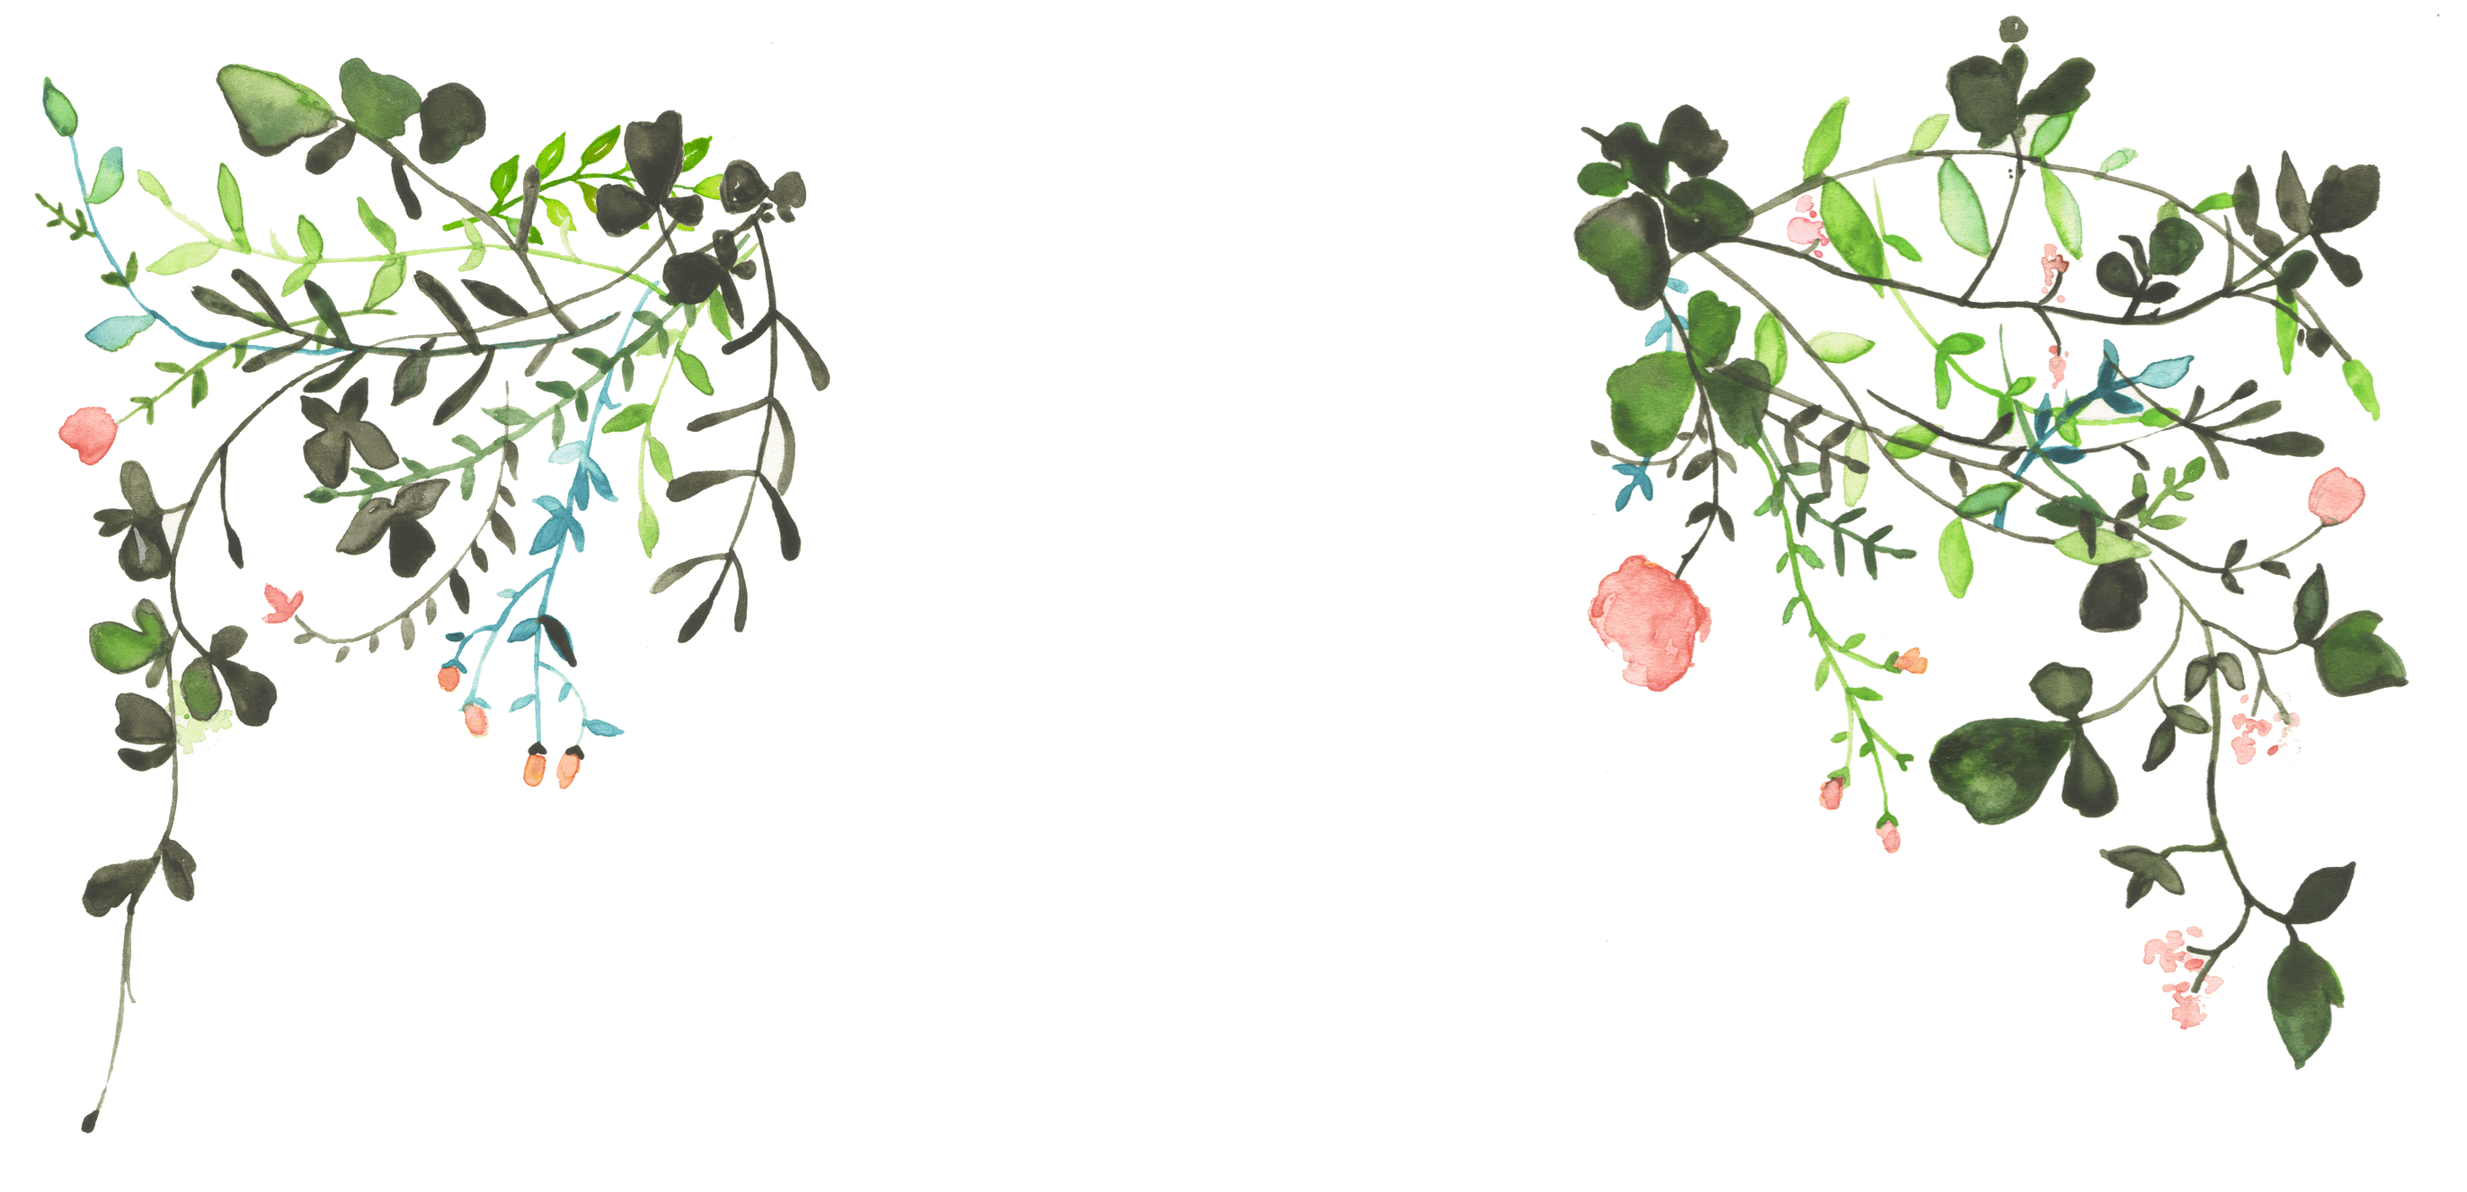
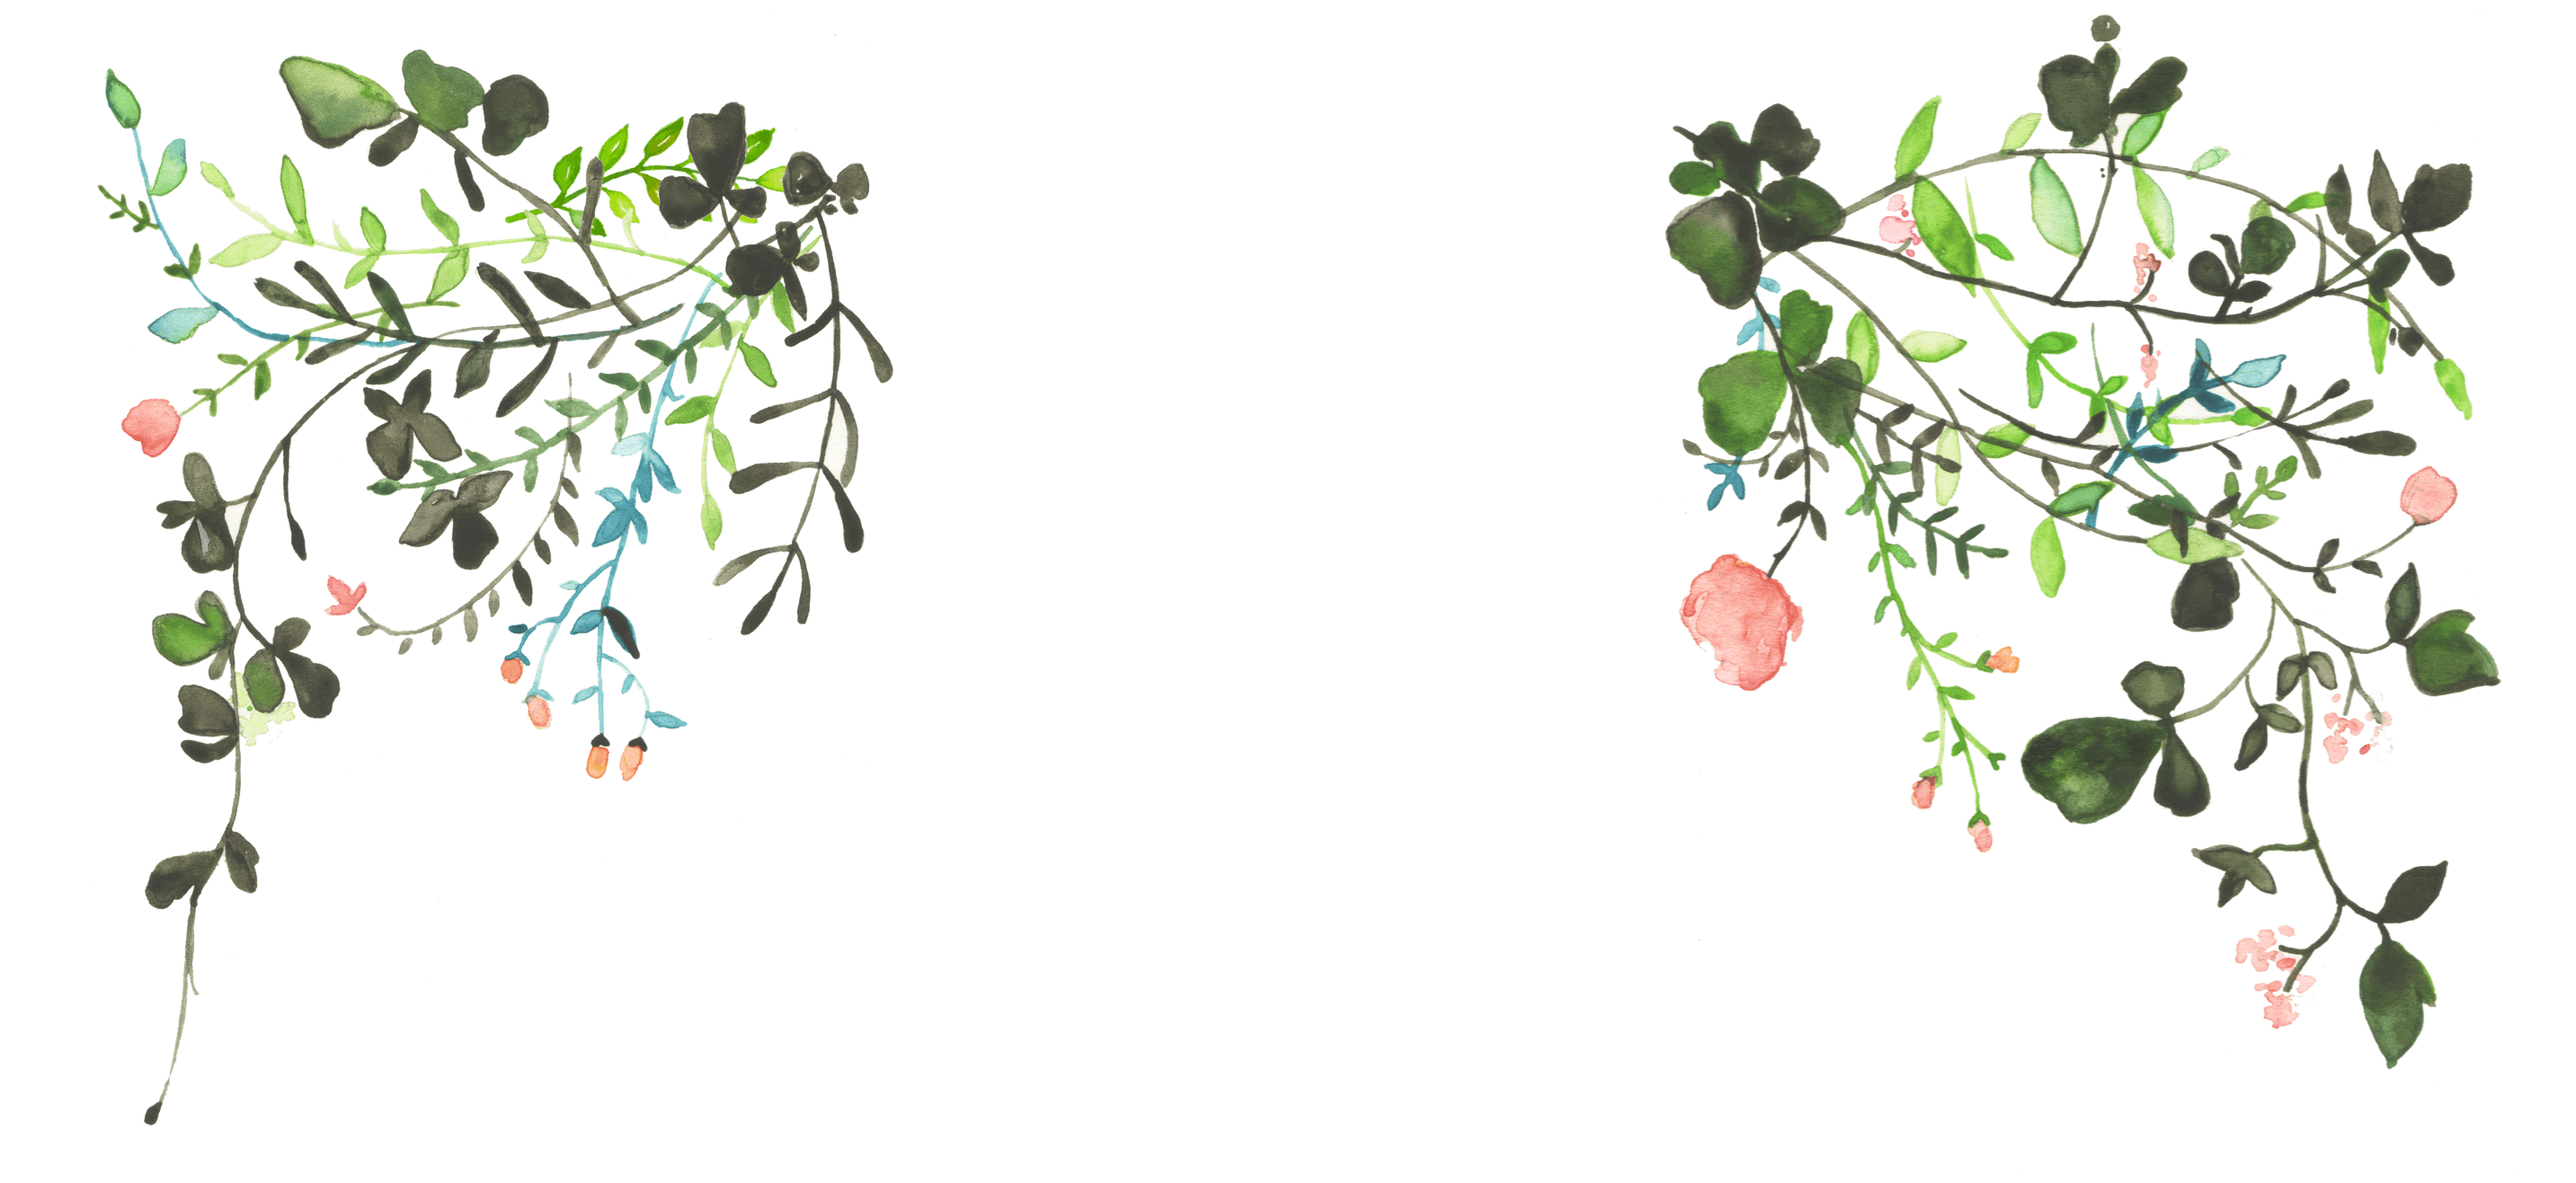
.

diff --git a/css.css b/css.css
@@ -9,13 +9,14 @@ line-height: 1cm;
 /*-------------------*/
 
 .background {
-    background-attachment: inherit;
+    background-image: url(images/FLORAL.png);
+    position: absolute;
+    background-size: 1270px 640px;
     background-repeat: no-repeat;
+    z-index: -1;
     width: 100%;
-    height: inherit;
-    align-content: center;
-    position: relative;
-    
+    height: 39.5em;
+    align-content: center;    
 }
 
 
@@ -33,6 +34,7 @@ nav a {
     font-size: .8em;
     font-family: 'raleway';}
 
+.container {height:675px;}
 
 /*-------------------*/
 
@@ -123,10 +125,8 @@ p.space {color: white;
 .marque {
     padding-bottom: 1.5em;
     max-width: 10%;
-    position: absolute;
-    top: 140px;
-    right: 600px;
-
+    position: relative;
+    z-index: 1;
     }
 
 /*--------------------*/
@@ -134,16 +134,12 @@ p.space {color: white;
 div.hr {
 width: 25%;
 padding-bottom: .4em;
- position: absolute;
-top: 300px;
-right: 510px;}
+position: relative; }
 
 
 
 .nametop {
-  position: absolute;
-  top: 320px;
-  right: 500px;
+  position: relative;
   color: black;
   font-family: 'raleway';
   text-transform: uppercase;
@@ -205,7 +201,8 @@ right: 510px;}
     letter-spacing: 0.2em;
     padding-top: 1.5em;
     padding-bottom: 3em;
-    color: darkslategrey;}
+    color: darkslategrey;
+text-align: left;}
 
 a { color: #88B891;}
 
@@ -240,7 +237,7 @@ h2 {
   display: block;
   font-family: 'raleway';
   padding-top: 1em;
-    padding-bottom: .5em;
+  padding-bottom: .5em;
   text-align: left;
   text-transform: uppercase;
   letter-spacing: 0.2em;
@@ -297,34 +294,53 @@ li {padding-left: .5em;}
 
 /*----------BACK TO TOP LINK-----------*/
 
-
 .backtotop {
     float: right;
     padding-right: 3em;
-    padding-top: 1em;
-    font-size: .8em;
-    text-transform: uppercase;
-    color: white;
-    font-family: 'Raleway';
-    letter-spacing: 0.2em;
-    position: relative;
-    text-decoration: underline;
 }
 
-.backtotop:hover {
-    opacity: 0.6;
+
+.button {
+    position: relative;
+    width: 100%;
+    background-color: white;
+    border: none;
+    color: darkslategray;
+    font-family: 'Raleway';
+    font-weight: bolder;
+    letter-spacing: 0.05em;
+    padding: 2px 12px;
+    text-align: center;
+    text-decoration: none;
+    display: inline-block;
+    font-size: 15px;
+    text-transform: uppercase;
+    letter-spacing: 1;
+    margin: 4px 5px;
+    -webkit-transition-duration: 0.4s;
+    transition-duration: 0.4s;
+    cursor: pointer;
+    z-index: 1;
+    border-radius: 3px;
+}
+
+.button:hover {
+    background-color: #313131;
+    color: white;
+    border-radius: 6px;
 }
 
 
 /*---------SOCIAL ICONS-----------*/
 
 .social {
-    padding-top: 1.5em;}
+    padding-top: 1.5em;
+    text-align: left;}
 
 .dribble {
     width: 3%;
     padding-right: .5em;
-    padding-left: 3em;
+    padding-left: 2.5em;
     opacity: 0.7;
 }
 
@@ -369,7 +385,9 @@ li {padding-left: .5em;}
     font-weight: 600;
     color: white;
     letter-spacing: 0.1em;
-    padding-left: 4em;
+    padding-left: 3.5em;
+    padding-bottom: 1em;
+    text-align: left;
 }
 
 

diff --git a/index.html b/index.html
@@ -16,7 +16,7 @@
     <link rel="stylesheet" type="text/css" href="responsive.css">
         </head>
 
-        <body>
+       
 <article id="top">
           <center>
     <div class="container">
@@ -25,9 +25,13 @@
         <a href="portfolio.html" title="View my Portfolio!" class="Effect-14">P o r t f o l i o</a> 
         <a href="sideprojects.html" class="Effect-14">S i d e  P r o j e c t s </a> 
         <a href="contact.html" class="Effect-14">C o n t a c t</a> 
-        <a href="images/CV.pdf" download="CV.pdf" class="Effect-14">C V</a> 
+        <a href="/images/CV.pdf" download="CV.pdf" class="Effect-14">C V</a> 
         </nav>
-        <img src="images/FLORAL.png" img class="background"> <br>
+        </header>
+        
+         <body>
+             <div class="background"></div>
+        <br>
         <br>
         <center>
                   
@@ -47,7 +51,6 @@
     <img src="images/arrow.svg" img class="arrow"></a>
         
         </center>
-            </header>
                 </div>
     
     <div class="container2">
@@ -94,7 +97,7 @@
     <section>
     <h4 class="contacttext"> I'm passionate and ethusiastic to learn more and more. I also love working with others. Travel and the world around us inspires me so I make it my mission to get away a lot. Take a look at my <a href="portfolio.html">portfolio</a> of work or some of my <a href="side-projects.html">side projects</a>. I would love to <a href="mailto:Graham-A31@email.ulster.ac.uk">chat</a> so drop me a line if you fancy working together. </h4>
             </section>
-  </center>
+  
         <div id="darkgrey">
     <div class="social"> 
     <a href="https://dribbble.com/amy-graham" title="Follow me"> <img src="images/dribbble.svg" img class="dribble fade in x infinite"></a> 
@@ -102,12 +105,14 @@
     <img src="images/instagram.svg" img class="insta"></a> 
     <a href="https://twitter.com/amy17graham" title="Follow me"> <img src="images/twitter.svg" img class="twitter"></a> 
     <a href="mailto:Graham-A31@email.ulster.ac.uk" title="Drop me a line"> <img src="images/mail.svg" img class="mail"></a> 
-    <a href="#top" class="smoothScroll">
-    <h2 class="backtotop">Back to top</h2>
-      </a> </div>
+                
+    <section class="backtotop">
+    <a href="#top" class="smoothScroll"><button type="button" class="button" >Back to top</button></a></section>
+            </div>
+            
+
     
-  <section class="socialicons">Join my journey on social media</section> </div>
-        </article>
+            <section class="socialicons">Join my journey on social media</section></div>
 
         <script>
     $(document).ready(function () {
